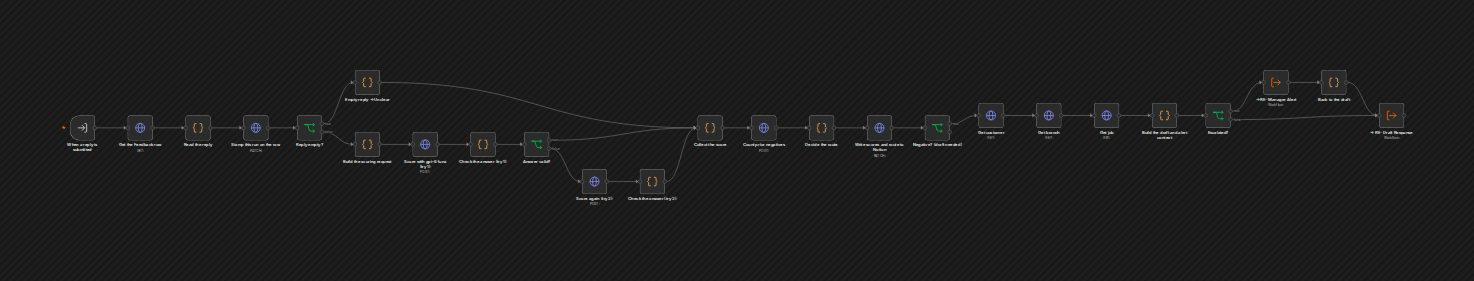
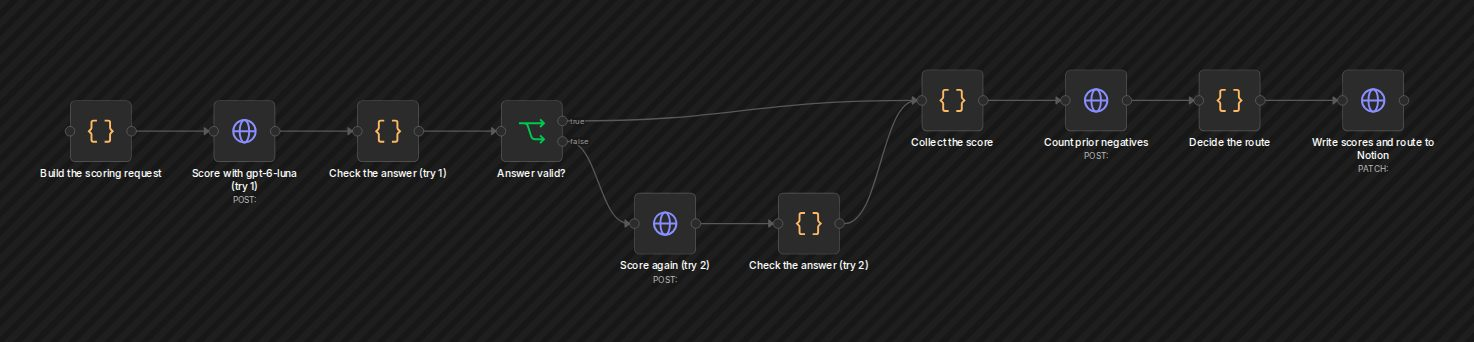
Portfolio: full-size lightbox, click-to-enlarge hint, readable crops, wording
- Workflow images open at their real size in the shot-lightbox (the overlay
  scrolls on small screens); "Click to enlarge" badge on each
- Chat agent and RE Score & Route images cropped to their core section (the full
  canvases were unreadable strips); Autopilot close-ups first, overview second
- Removed "It is not a client project, and no client has used it yet." and the
  Reddit-feed sentence

diff --git a/layouts/partials/shot-lightbox.html b/layouts/partials/shot-lightbox.html
@@ -1,6 +1,7 @@
-<div id="shot-lightbox" onclick="closeShotLightbox()" style="display:none;position:fixed;top:0;left:0;width:100%;height:100%;background:rgba(0,0,0,0.92);z-index:999999;cursor:zoom-out;align-items:center;justify-content:center;padding:24px;box-sizing:border-box;">
+{{- /* Workflow shots open at their real size (2026-09-28): the overlay scrolls when an image is wider or taller than the screen, so node labels stay readable on phones; margin:auto centres images that fit. */ -}}
+<div id="shot-lightbox" onclick="closeShotLightbox()" style="display:none;position:fixed;top:0;left:0;width:100%;height:100%;background:rgba(0,0,0,0.92);z-index:999999;cursor:zoom-out;padding:24px;box-sizing:border-box;overflow:auto;">
 <button type="button" onclick="closeShotLightbox()" aria-label="Close" style="position:fixed;top:16px;right:16px;width:44px;height:44px;border-radius:9999px;background:rgba(255,255,255,0.15);border:1px solid rgba(255,255,255,0.35);color:#fff;font-size:22px;line-height:1;cursor:pointer;display:flex;align-items:center;justify-content:center;z-index:1000000;">✕</button>
-<img id="shot-lightbox-img" class="nozoom" src="" alt="" onclick="closeShotLightbox()" style="max-width:100%;max-height:100%;object-fit:contain;border-radius:8px;display:block;cursor:zoom-out;">
+<img id="shot-lightbox-img" class="nozoom" src="" alt="" onclick="closeShotLightbox()" style="max-width:none;max-height:none;margin:auto;border-radius:8px;display:block;cursor:zoom-out;">
 </div>
 <script>
 function openShotLightbox(src, alt) {

diff --git a/assets/css/custom.css b/assets/css/custom.css
@@ -733,3 +733,16 @@ body.max-w-7xl {
 }
 .pf-diagram-tall { display: none !important; }
 @media (max-width: 767px) { .pf-diagram-wide { display: none !important; } .pf-diagram-tall { display: block !important; max-width: 360px; margin: 0 auto; } }
+/* "Click to enlarge" badge on every portfolio workflow image (opens full size in the shot-lightbox) */
+.pf-shot { position: relative; }
+.pf-shot::before {
+  content: "Click to enlarge";
+  position: absolute; top: 8px; right: 8px; z-index: 1;
+  padding: 3px 8px; border-radius: 99px;
+  font-size: 12px; font-weight: 600; line-height: 1.4;
+  color: #fff; background: rgba(0, 0, 0, 0.65); border: 1px solid rgba(255, 255, 255, 0.25);
+  pointer-events: none;
+}
+.pf-overview { margin-top: 10px !important; }
+/* the global img { max-width: 100% !important } rule would shrink lightbox shots to the screen; they open at real size and the overlay scrolls */
+#shot-lightbox-img { max-width: none !important; max-height: none !important; width: auto !important; height: auto !important; }

diff --git a/content/portfolio.md b/content/portfolio.md
@@ -24,12 +24,12 @@ The same kinds of systems I build for agencies: content engines, production pipe
 
 <div class="pf-grid">
 <div class="pf-card pf-wide">
-<figure class="pf-shot"><img src="/portfolio/automation/autopilot-overview.jpg" width="1474" height="310" alt="Scheduled LinkedIn Autopilot workflow in n8n" loading="lazy" decoding="async" class="nozoom" onclick="openShotLightbox(this.src,this.alt)"></figure>
 <div class="pf-thumbs">
 <figure class="pf-shot"><img src="/portfolio/automation/autopilot-late-slot-guard.jpg" width="740" height="408" alt="Autopilot late-slot guard: Start Jitter, Guard Decision and the skipped-slot notice" loading="lazy" decoding="async" class="nozoom" onclick="openShotLightbox(this.src,this.alt)"><figcaption>Late-slot guard</figcaption></figure>
 <figure class="pf-shot"><img src="/portfolio/automation/autopilot-voice-check-loop.jpg" width="1474" height="402" alt="Autopilot voice-check loop: draft, precheck, judge and retry" loading="lazy" decoding="async" class="nozoom" onclick="openShotLightbox(this.src,this.alt)"><figcaption>Voice-check loop</figcaption></figure>
 <figure class="pf-shot"><img src="/portfolio/automation/autopilot-approval-gate.jpg" width="667" height="408" alt="Autopilot approval gate: Telegram approval before Publish to LinkedIn" loading="lazy" decoding="async" class="nozoom" onclick="openShotLightbox(this.src,this.alt)"><figcaption>Approval gate</figcaption></figure>
 </div>
+<figure class="pf-shot pf-overview"><img src="/portfolio/automation/autopilot-overview.jpg" width="1474" height="310" alt="Scheduled LinkedIn Autopilot workflow in n8n" loading="lazy" decoding="async" class="nozoom" onclick="openShotLightbox(this.src,this.alt)"><figcaption>The whole Autopilot, from schedule to publish</figcaption></figure>
 <div class="pf-title">LinkedIn Scheduled Autopilot</div>
 <div class="pf-line"><strong>Problem:</strong> A posting habit breaks the first week you get busy.</div>
 <div class="pf-line"><strong>What it does:</strong> Twice a day, Monday to Saturday, it asks me for a topic, researches it, drafts in my voice, runs the draft through an automated voice check and sends the version that passes to me in Telegram.</div>
@@ -37,7 +37,7 @@ The same kinds of systems I build for agencies: content engines, production pipe
 </div>
 
 <div class="pf-card">
-<figure class="pf-shot"><img src="/portfolio/automation/linkedin-chat-agent.jpg" width="1474" height="346" alt="LinkedIn AI Posting Agent chat workflow in n8n" loading="lazy" decoding="async" class="nozoom" onclick="openShotLightbox(this.src,this.alt)"></figure>
+<figure class="pf-shot"><img src="/portfolio/automation/linkedin-chat-agent.jpg" width="976" height="408" alt="LinkedIn AI Posting Agent chat workflow in n8n" loading="lazy" decoding="async" class="nozoom" onclick="openShotLightbox(this.src,this.alt)"></figure>
 <div class="pf-title">LinkedIn AI Posting Agent</div>
 <div class="pf-line"><strong>Problem:</strong> Good post ideas come up during the day and are gone by the time there is time to write.</div>
 <div class="pf-line"><strong>What it does:</strong> A Telegram chat agent. I send a thought, a photo or a voice note; it researches, drafts in my voice and revises until I am happy.</div>
@@ -49,7 +49,7 @@ The same kinds of systems I build for agencies: content engines, production pipe
 <figure class="pf-shot"><img src="/portfolio/automation/research-topic-scoring.jpg" width="1006" height="408" alt="Research Topic workflow in n8n: news and trends feeds scored by AI" loading="lazy" decoding="async" class="nozoom" onclick="openShotLightbox(this.src,this.alt)"></figure>
 <div class="pf-title">Topic research and scoring</div>
 <div class="pf-line"><strong>Problem:</strong> Finding something worth posting about takes an hour of reading.</div>
-<div class="pf-line"><strong>What it does:</strong> Pulls Google News and Google Trends for a topic, scores every item with an AI model and hands the drafting step the best sources, with names and links. A Reddit feed is wired in too, but Reddit currently blocks it, so it adds nothing.</div>
+<div class="pf-line"><strong>What it does:</strong> Pulls Google News and Google Trends for a topic, scores every item with an AI model and hands the drafting step the best sources, with names and links.</div>
 <div class="pf-line pf-proof"><strong>Detail:</strong> Scores up to 20 items and keeps the top 6. Sources without a real publication name are dropped, so nothing gets cited to "Markets" or a bare domain.</div>
 </div>
 
@@ -120,12 +120,12 @@ The same kinds of systems I build for agencies: content engines, production pipe
 <div class="pf-grid">
 <div class="pf-card pf-wide">
 <div class="pf-thumbs">
-<figure class="pf-shot"><img src="/portfolio/automation/re-score-route.jpg" width="1474" height="281" alt="Reputation Engine: Score and Route workflow in n8n" loading="lazy" decoding="async" class="nozoom" onclick="openShotLightbox(this.src,this.alt)"><figcaption>Score and route</figcaption></figure>
+<figure class="pf-shot"><img src="/portfolio/automation/re-score-route.jpg" width="1474" height="342" alt="Reputation Engine: Score and Route workflow in n8n" loading="lazy" decoding="async" class="nozoom" onclick="openShotLightbox(this.src,this.alt)"><figcaption>Score and route</figcaption></figure>
 <figure class="pf-shot"><img src="/portfolio/automation/re-draft-response.jpg" width="1474" height="342" alt="Reputation Engine: Draft Response workflow in n8n" loading="lazy" decoding="async" class="nozoom" onclick="openShotLightbox(this.src,this.alt)"><figcaption>Draft response</figcaption></figure>
 <figure class="pf-shot"><img src="/portfolio/automation/re-manager-alert.jpg" width="1474" height="367" alt="Reputation Engine: Manager Alert workflow in n8n" loading="lazy" decoding="async" class="nozoom" onclick="openShotLightbox(this.src,this.alt)"><figcaption>Manager alert</figcaption></figure>
 </div>
 <div class="pf-title">Reputation and Feedback Intelligence Engine <span class="pf-tag">Reference build</span></div>
-<div class="pf-line">A complete system I built end to end in n8n and tested live, ready to deploy for agencies' multi-location clients. It is not a client project, and no client has used it yet.</div>
+<div class="pf-line">A complete system I built end to end in n8n and tested live, ready to deploy for agencies' multi-location clients.</div>
 <div class="pf-line"><strong>Problem:</strong> Multi-location businesses hear about unhappy customers too late, and replies are slow and inconsistent.</div>
 <div class="pf-line"><strong>What it does:</strong> Every customer reply is scored by AI for sentiment, severity and confidence, then routed by fixed rules: ready to post, private follow-up, escalation, or human review when the AI is unsure. Negative replies get a personal draft for staff to approve.</div>
 <div class="pf-line pf-proof"><strong>Detail:</strong> Escalations alert the branch manager by email and Telegram. Drafts are never sent to the customer automatically. It passed a 5 of 5 live end-to-end run.</div>
